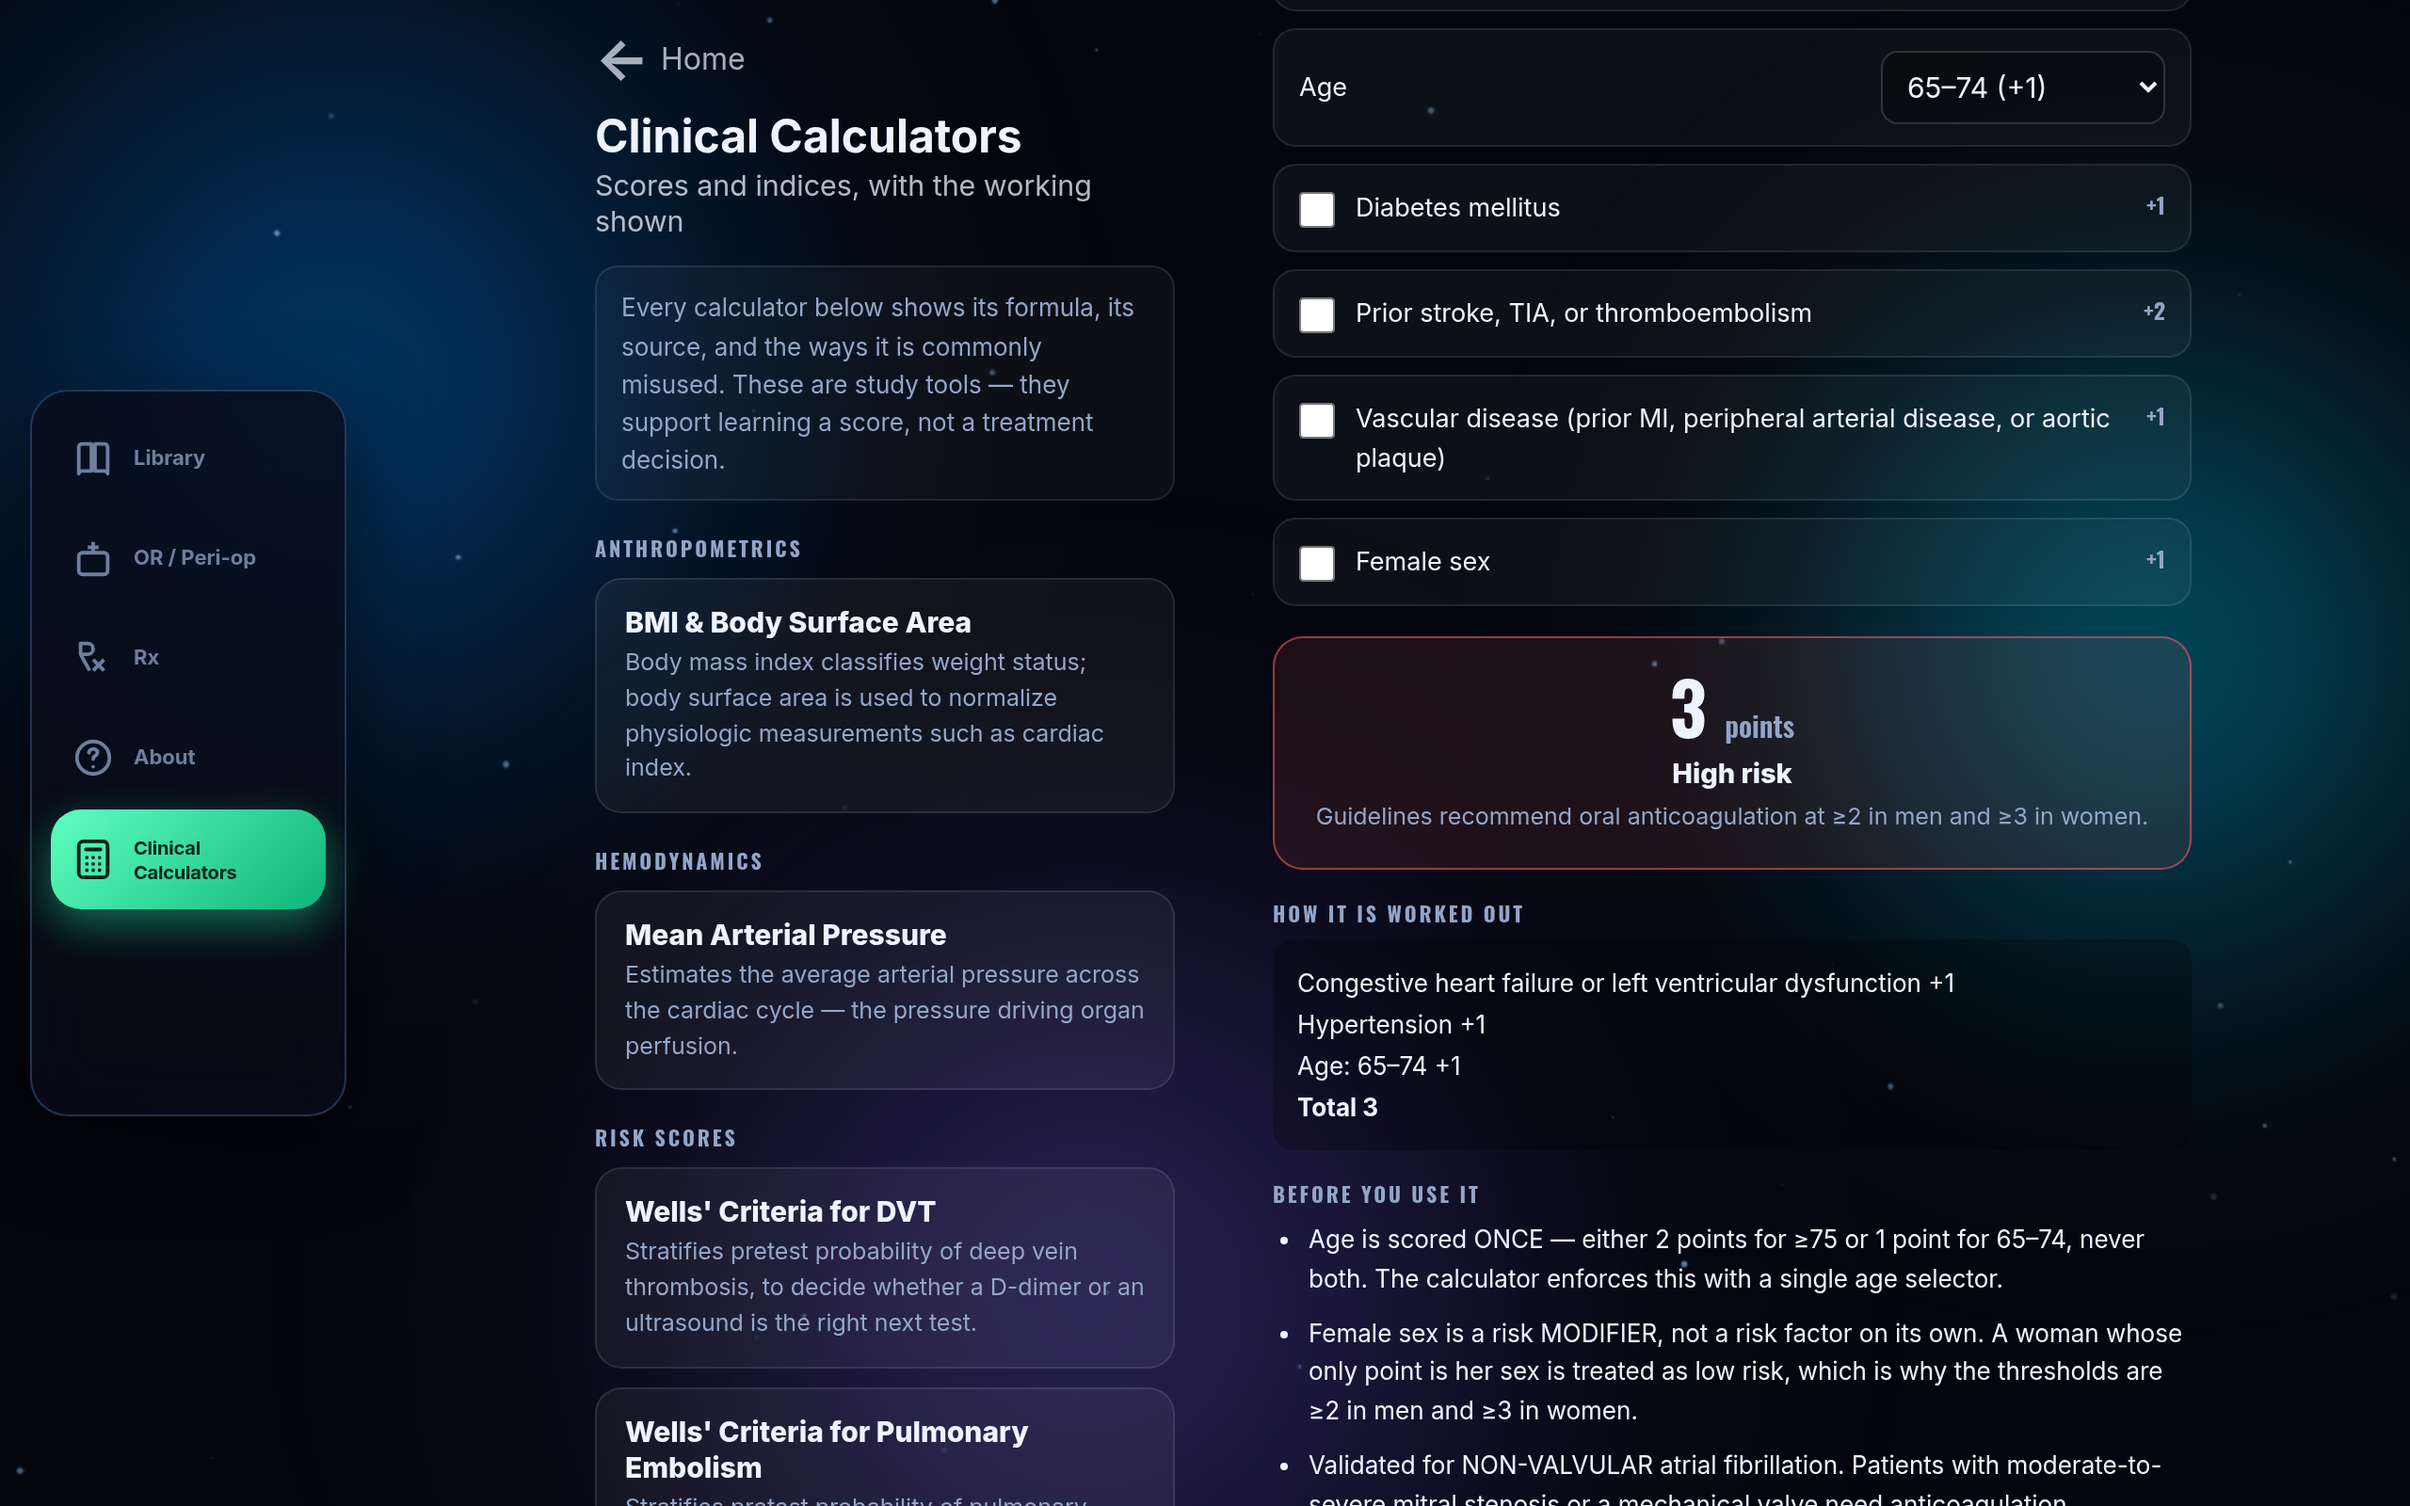
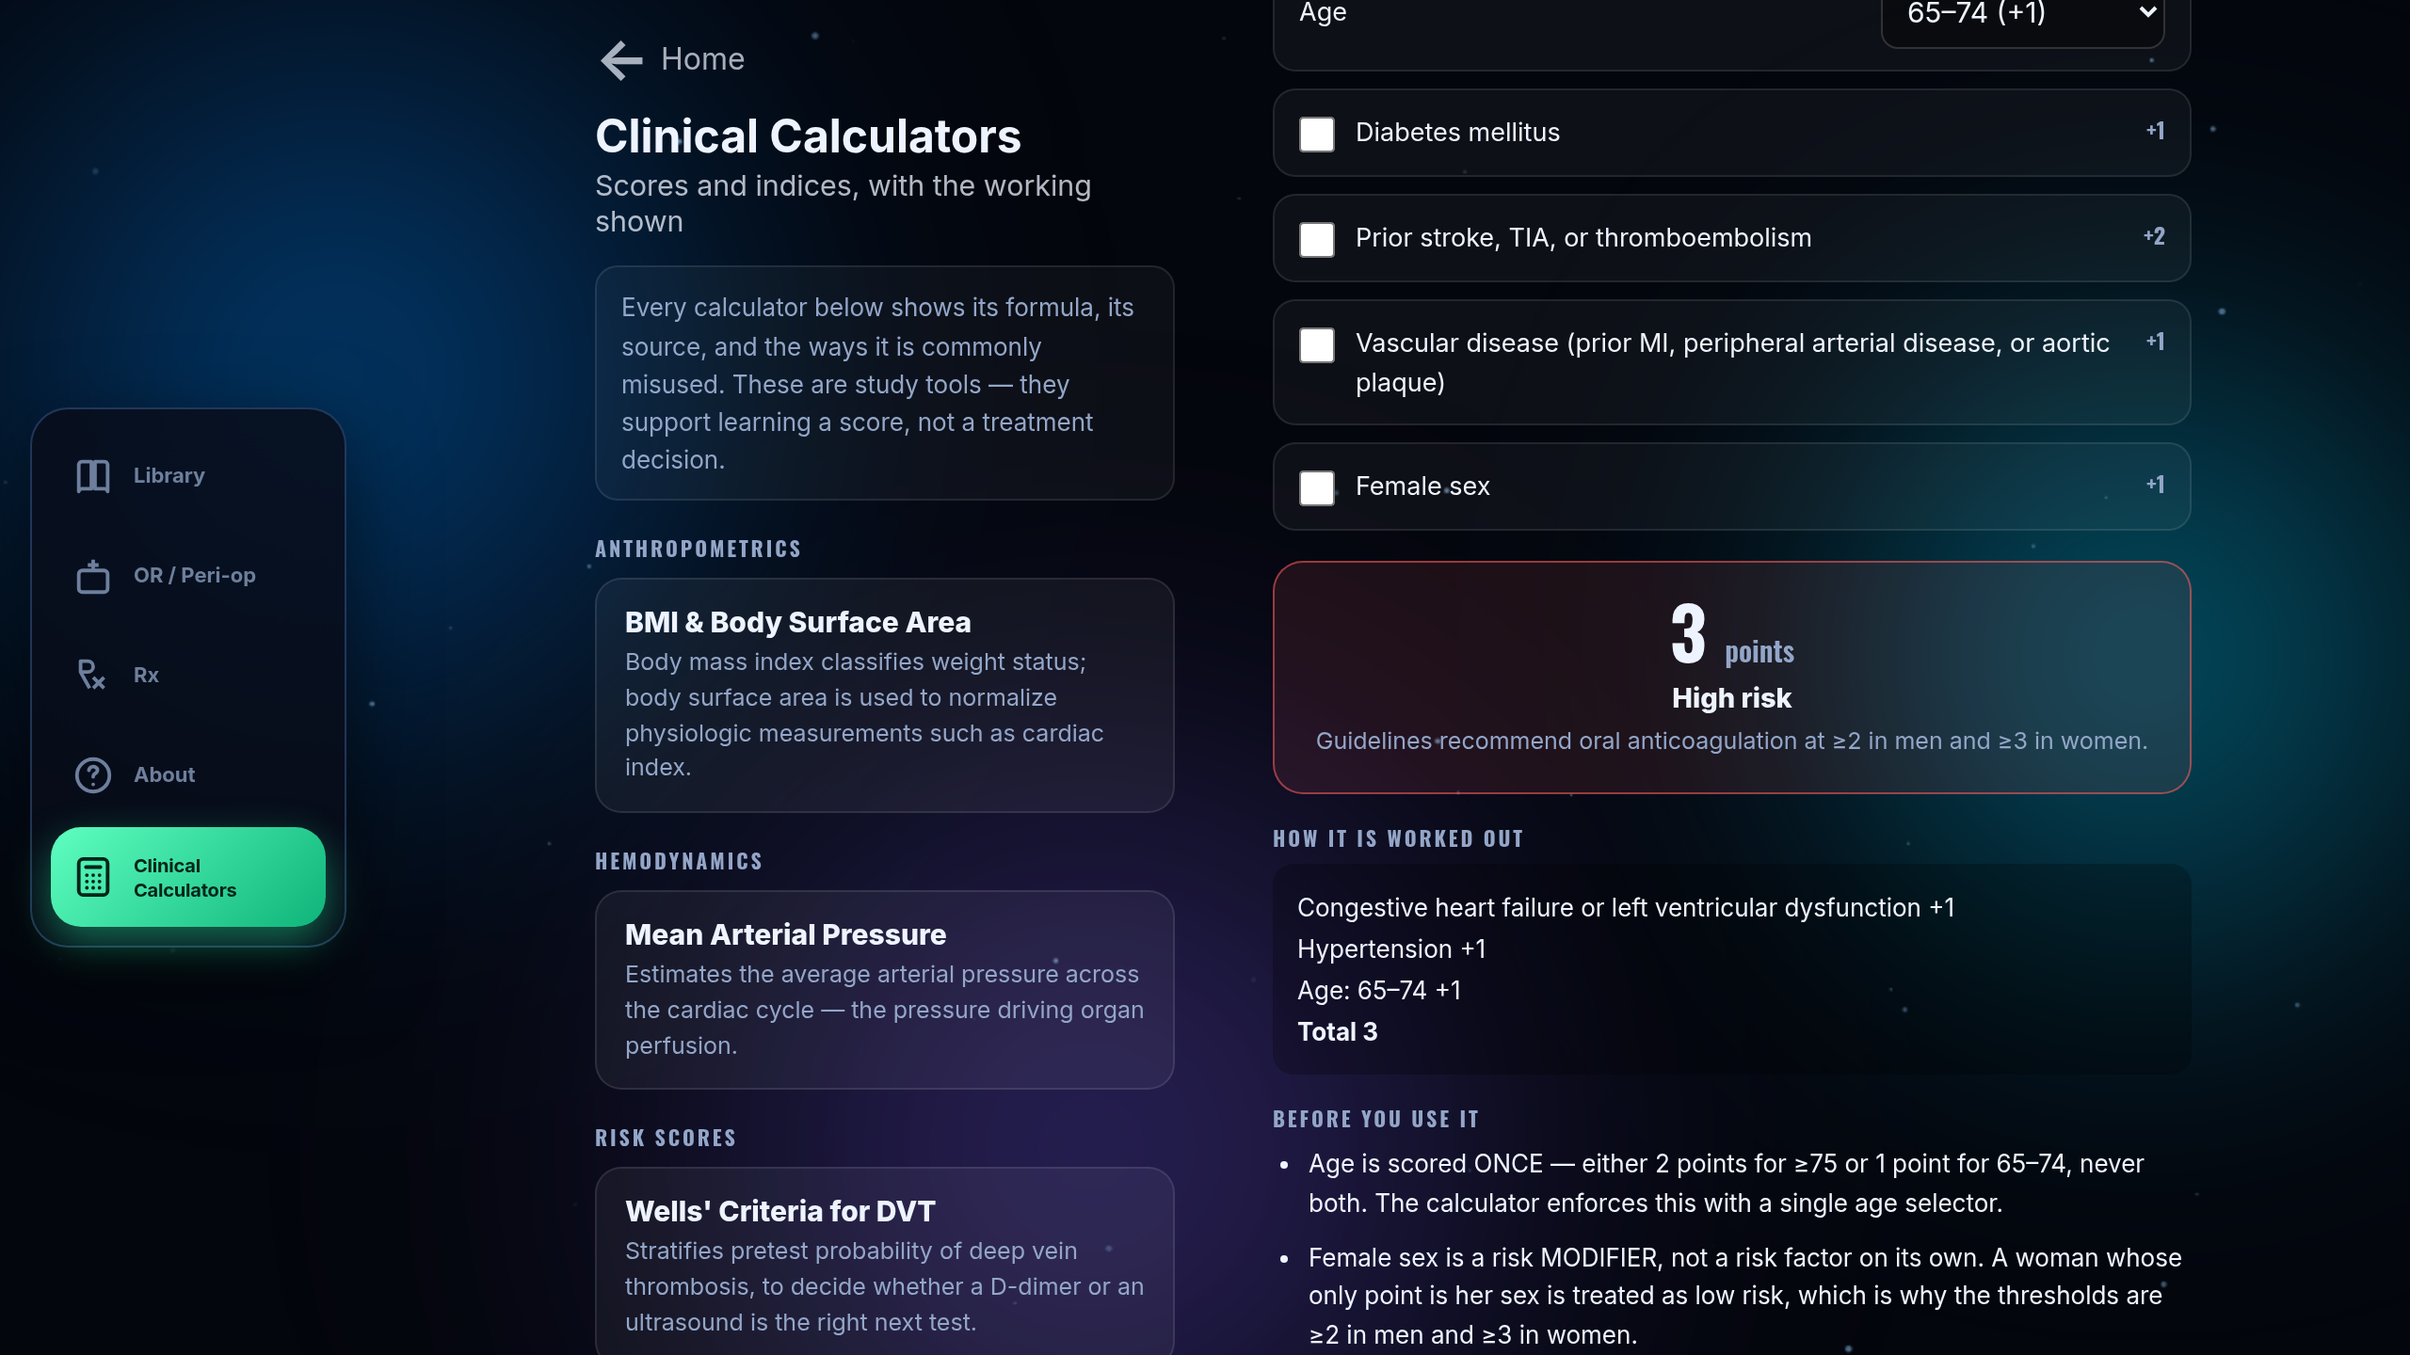
Tablet screenshots must be exactly 16:9 -- re-shoot both sets
The first sets were 2048x1200 and 2560x1600, taken at genuine tablet logical
sizes, which is why they looked right and went unquestioned. Play's tablet
slots accept 16:9 or 9:16 and nothing else; the Console tags anything else
"Needs cropping" and you only find out at upload.

Heights came down rather than widths going up: 1280 is what keeps tablet10
above the app's own 1180px breakpoint, and 960 keeps tablet7 below it. Widening
to reach 16:9 would have pushed tablet7 across the breakpoint and produced two
sets of the same picture.

The size guard asserted aspect <= 2:1 and passed both wrong sets -- true but
insufficient. Each preset now carries its exact ratio and side bounds, checked
by equality; run against the old dimensions it fails both.

Also seeds a test session, so the shoot works against a web clone and not only
an unstripped native payload. Without it the login wall covers the disclaimer's
OK button and the run reports eight identical 3s click timeouts that mention
nothing about auth.

Claude-Session: https://claude.ai/code/session_015kiLWuGqMs8qWCNNBiGRfq

diff --git a/scripts/shoot_play_screenshots.js b/scripts/shoot_play_screenshots.js
@@ -22,15 +22,22 @@
  * screenshot cannot show it. Both tablet presets are LANDSCAPE, which is how Play displays tablet
  * panels and how a tablet is actually held for reading.
  *
- *   tablet10  1280x800 CSS @2  -> 2560x1600.  ABOVE the 1180px breakpoint, so this is the only
+ *   tablet10  1280x720 CSS @2  -> 2560x1440.  ABOVE the 1180px breakpoint, so this is the only
  *                                preset that shows the side rail and the two-pane list. That is
  *                                the whole point of shooting it.
- *   tablet7   1024x600 CSS @2  -> 2048x1200.  Level 1 layout, no rail -- 1024 is below 1180.
+ *   tablet7    960x540 CSS @2  -> 1920x1080.  Level 1 layout, no rail -- 960 is below 1180.
  *
- * Both sit inside Play's tablet rules: every side between 1080 and 7680 px, aspect ratio no wider
- * than 2:1 (2560/1600 = 1.6, 2048/1200 = 1.71). A 7-inch preset at its true 600 CSS px height
- * would be 1200 device px, which clears the 1080 floor only because of the x2 scale -- do not drop
- * the scale factor to "save file size".
+ * THE TABLET SLOTS WANT EXACTLY 16:9, AND THE FIRST VERSION OF THIS FILE GOT IT WRONG. They were
+ * shot at 1024x600 and 1280x800 -- genuine tablet logical sizes, which is why they looked right --
+ * giving 2048x1200 (1.707) and 2560x1600 (1.600). Play states "16:9 or 9:16" for both tablet
+ * slots and tags anything else "Needs cropping" in the asset picker. A real device size is not the
+ * spec; the spec is the spec. The heights came down (600->540, 800->720) rather than the widths
+ * going up, because 1280 is what puts the 10-inch preset over the app's own 1180 breakpoint and
+ * 960 is what keeps the 7-inch one under it.
+ *
+ * The old guard asserted `ratio <= 2:1` and PASSED both wrong sets -- true but insufficient, the
+ * same shape of mistake as a regression test that never fails on the bug it was written for. Each
+ * preset now carries its own exact ratio and side bounds, and the check is equality.
  *
  * `isMobile` is false on the tablets. It is not cosmetic: with isMobile true, Chromium applies
  * mobile viewport emulation and the app lays out as a phone at any width, which would silently
@@ -50,6 +57,7 @@ const { chromium } = require(process.env.RC_PW + '/node_modules/playwright-core'
 const { spawn } = require('child_process');
 const path = require('path');
 const fs = require('fs');
+const { seedAuth } = require(path.join(__dirname, 'rc_test_auth.js'));
 
 const ROOT = process.argv[2], OUT = process.argv[3];
 const portArg = process.argv[4];
@@ -63,9 +71,13 @@ if (!ROOT || !OUT) {
 
 /* Play's requirements, and the CSS sizes that produce them. See the header for why each one. */
 const DEVICES = {
-  phone:    { w: 360,  h: 640,  dpr: 3, mobile: true  },   // -> 1080 x 1920
-  tablet7:  { w: 1024, h: 600,  dpr: 2, mobile: false },   // -> 2048 x 1200
-  tablet10: { w: 1280, h: 800,  dpr: 2, mobile: false },   // -> 2560 x 1600
+  //                                                    out          Play slot rule
+  phone:    { w: 360,  h: 640,  dpr: 3, mobile: true,   // 1080x1920  9:16, sides 1080..7680
+              ratio: 9 / 16, minSide: 1080, maxSide: 7680 },
+  tablet7:  { w: 960,  h: 540,  dpr: 2, mobile: false,  // 1920x1080  16:9, sides  320..3840
+              ratio: 16 / 9, minSide: 320,  maxSide: 3840 },
+  tablet10: { w: 1280, h: 720,  dpr: 2, mobile: false,  // 2560x1440  16:9, sides 1080..7680
+              ratio: 16 / 9, minSide: 1080, maxSide: 7680 },
 };
 const DEV = DEVICES[DEVICE];
 if (!DEV) {
@@ -76,7 +88,7 @@ const W = DEV.w, H = DEV.h, DPR = DEV.dpr;
 
 /* Play's own bounds, asserted on every file rather than assumed from the maths above. A preset
    edited to something Play rejects should fail here, not in the Console. */
-const MIN_SIDE = 1080, MAX_SIDE = 7680, MAX_RATIO = 2;
+const MIN_SIDE = DEV.minSide, MAX_SIDE = DEV.maxSide, RATIO = DEV.ratio;
 
 fs.mkdirSync(OUT, { recursive: true });
 
@@ -193,6 +205,12 @@ const SHOTS = [
        condition, an answered quiz) would otherwise leak into the next frame. */
     const ctx = await browser.newContext({
       viewport: { width: W, height: H }, deviceScaleFactor: DPR, isMobile: DEV.mobile, hasTouch: true });
+    /* The NATIVE PAYLOAD has no login wall, so this file originally did not seed a session and
+       could not be pointed at a web clone: #rc-authgate covers everything and the disclaimer's OK
+       button below it never becomes clickable, which surfaces as eight identical 3s click
+       timeouts rather than as anything mentioning auth. Seeding is inert on a payload -- nothing
+       reads the key -- so it costs nothing and makes either tree shootable. */
+    await seedAuth(ctx);
     const p = await ctx.newPage();
     const errs = [];
     p.on('pageerror', e => errs.push(String(e)));
@@ -234,7 +252,12 @@ const SHOTS = [
       const lo = Math.min(width, height), hi = Math.max(width, height);
       if (lo < MIN_SIDE) why.push(`short side ${lo} < Play's ${MIN_SIDE}`);
       if (hi > MAX_SIDE) why.push(`long side ${hi} > Play's ${MAX_SIDE}`);
-      if (hi / lo > MAX_RATIO) why.push(`aspect ${(hi / lo).toFixed(2)}:1 > Play's ${MAX_RATIO}:1`);
+      /* EQUALITY, not an upper bound. Play's tablet slots accept 16:9 or 9:16 and nothing else,
+         and the old `<= 2:1` test passed 1.707 and 1.600 without complaint. */
+      const got = width / height;
+      if (Math.abs(got - RATIO) > 0.002) {
+        why.push(`aspect ${got.toFixed(3)} is not Play's ${RATIO.toFixed(3)} for ${DEVICE}`);
+      }
       const ok = why.length === 0;
       if (!ok) bad++;
       console.log(`  ${ok ? 'ok  ' : 'FAIL'} ${shot.file}  ${width}x${height}` +

diff --git a/native/play-screenshots/README.md b/native/play-screenshots/README.md
@@ -7,8 +7,23 @@ screenshots and allows eight per form factor.
 | set | folder | size | CSS viewport |
 |---|---|---|---|
 | phone | this folder | 1080×1920 | 360×640 @3 |
-| 7" tablet | `tablet7/` | 2048×1200 | 1024×600 @2, landscape |
-| 10" tablet | `tablet10/` | 2560×1600 | 1280×800 @2, landscape |
+| 7" tablet | `tablet7/` | 1920×1080 | 960×540 @2, landscape |
+| 10" tablet | `tablet10/` | 2560×1440 | 1280×720 @2, landscape |
+
+**BOTH TABLET SETS WERE RE-SHOT 2026-09-21 BECAUSE THE FIRST ONES WERE THE WRONG SHAPE.** They were
+2048×1200 (1.707) and 2560×1600 (1.600), taken at genuine tablet logical sizes — which is exactly
+why nobody questioned them. **Play's tablet slots accept 16:9 or 9:16 and nothing else**, and the
+Console tags anything else "Needs cropping" in the asset picker; the upload is where it surfaces.
+A real device size is not the spec.
+
+The heights came down rather than the widths going up, because **1280 is what keeps the 10" preset
+above the app's own 1180px breakpoint** and 960 is what keeps the 7" one below it — raising the
+widths to reach 16:9 would have moved `tablet7` across the breakpoint and produced two copies of the
+same layout.
+
+The guard in `shoot_play_screenshots.js` asserted `aspect <= 2:1` and **passed both wrong sets**:
+true, and insufficient. Each preset now carries its own exact ratio and side bounds and the check is
+equality — run against 2048×1200 and 2560×1600 it fails both.
 
 **Only `tablet10` shows the large-screen layout.** 1280 is above the app's own 1180px breakpoint, so
 that set — and only that set — has the side rail and the two-pane list that v138–v147 built. `tablet7`
